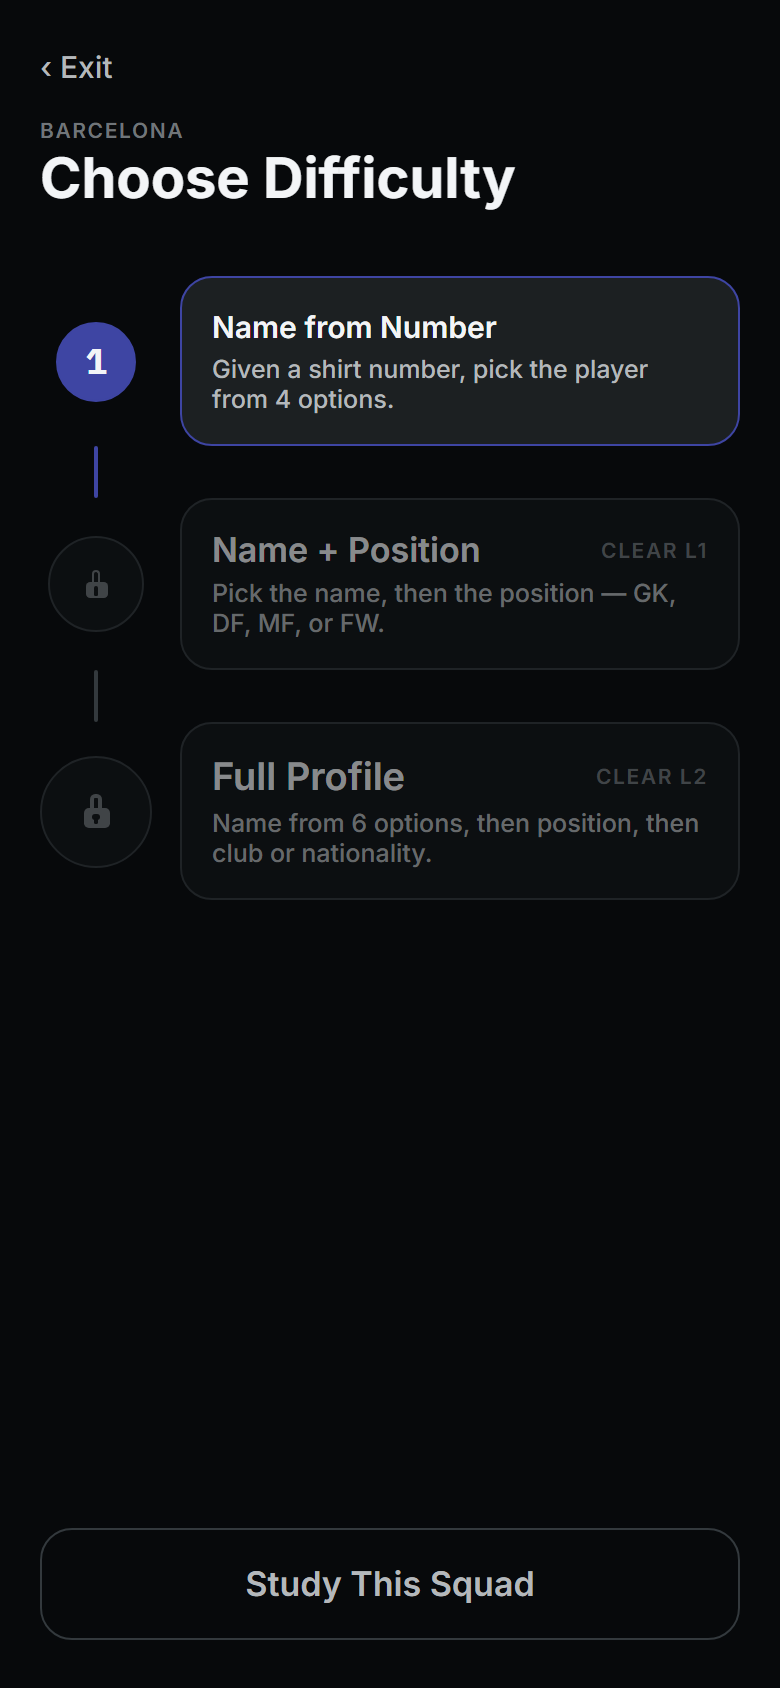
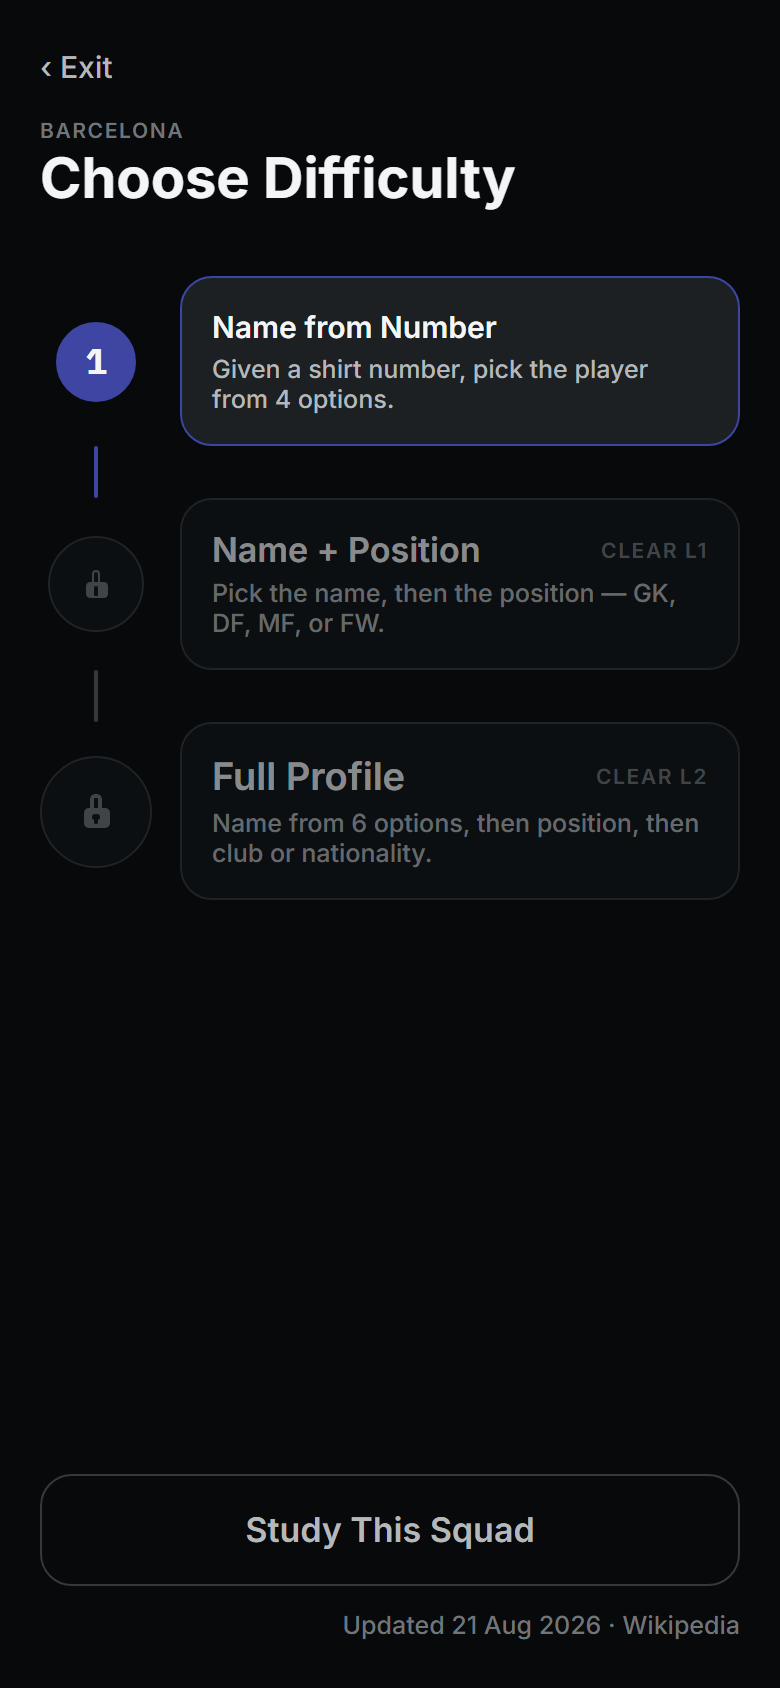
feat(data): track squad provenance and surface it before a round
Add lastUpdated/source to the Squad type so every squad file records
when it was last synced and the Wikipedia article it came from;
backfill all 11 existing squads. The squad-updater skill now writes
and reports both fields on every create/refresh. The Difficulty
screen shows a muted "Updated <date> · Wikipedia" footnote so a stale
squad is visible before a round starts, without cluttering the
in-round screens.

Changed region(s): [[0.3077, 0.8934, 0.7692, 0.9858], [0.8, 0.8934, 0.9538, 0.9858], [0.0308, 0.9242, 0.0615, 0.955]]

diff --git a/app/team/[squadId]/difficulty.tsx b/app/team/[squadId]/difficulty.tsx
@@ -6,7 +6,7 @@ import { Button } from '@/components/Button';
 import { DifficultyRow } from '@/components/DifficultyRow';
 import { LadderConnector } from '@/components/LadderConnector';
 import type { Level } from '@/lib/questionEngine';
-import { ladderRows } from '@/lib/ladderView';
+import { formatLastUpdated, ladderRows } from '@/lib/ladderView';
 import { getSquad } from '@/lib/squads';
 import { useProgress } from '@/stores/progress';
 import { colors, spacing, typography } from '@/theme/tokens';
@@ -82,6 +82,8 @@ export default function Difficulty() {
           }
         />
       </View>
+
+      <Text style={styles.updated}>Updated {formatLastUpdated(squad.lastUpdated)} · Wikipedia</Text>
     </View>
   );
 }
@@ -98,4 +100,10 @@ const styles = StyleSheet.create({
   title: { ...typography.screenTitle, color: colors.textPrimary, marginBottom: spacing.xxl },
   spacer: { flex: 1 },
   studyButton: { marginTop: spacing.lg },
+  updated: {
+    ...typography.descriptionSmall,
+    color: colors.textMuted,
+    alignSelf: 'flex-end',
+    marginTop: spacing.sm,
+  },
 });

diff --git a/lib/ladderView.test.ts b/lib/ladderView.test.ts
@@ -1,5 +1,5 @@
 import { describe, expect, it } from 'vitest';
-import { ladderRows } from './ladderView';
+import { formatLastUpdated, ladderRows } from './ladderView';
 
 describe('ladderRows', () => {
   it('unlocks level 1 with no history at all', () => {
@@ -44,5 +44,15 @@ describe('ladderRows', () => {
 
   it('returns exactly three rows in level order', () => {
     expect(ladderRows('bar', {}, {}).map((r) => r.level)).toEqual([1, 2, 3]);
+  });
+});
+
+describe('formatLastUpdated', () => {
+  it('formats an ISO date as day month year', () => {
+    expect(formatLastUpdated('2026-08-21')).toBe('21 Aug 2026');
+  });
+
+  it('does not zero-pad the day', () => {
+    expect(formatLastUpdated('2026-01-05')).toBe('5 Jan 2026');
   });
 });

diff --git a/lib/ladderView.ts b/lib/ladderView.ts
@@ -35,3 +35,12 @@ export function ladderRows(
     return { level, status: 'locked', unlockHint: `Clear L${level - 1}` };
   });
 }
+
+const MONTHS = ['Jan', 'Feb', 'Mar', 'Apr', 'May', 'Jun', 'Jul', 'Aug', 'Sep', 'Oct', 'Nov', 'Dec'];
+
+/** Formats a squad's `lastUpdated` (`YYYY-MM-DD`) as "21 Aug 2026" for the
+ *  difficulty screen's staleness footnote. */
+export function formatLastUpdated(isoDate: string): string {
+  const [year, month, day] = isoDate.split('-').map(Number);
+  return `${day} ${MONTHS[(month ?? 1) - 1]} ${year}`;
+}

diff --git a/types/squad.ts b/types/squad.ts
@@ -71,6 +71,10 @@ export interface Squad {
   /** The team's sole visual identity element — see `TeamMarker`. Present on
    *  every squad, since crests/badges/shields are never used. */
   marker: TeamMarker;
+  /** ISO date this squad file was last written/synced from its source. */
+  lastUpdated: string;
+  /** The Wikipedia article this squad was scraped from. */
+  source: string;
   members: SquadMember[];
 }
 

diff --git a/lib/questionEngine.test.ts b/lib/questionEngine.test.ts
@@ -27,6 +27,8 @@ function squad(overrides: Partial<Squad> = {}): Squad {
     secondaryColor: '#FFFFFF',
     verified: false,
     marker: { bands: ['#EF0107'], orientation: 'vertical' },
+    lastUpdated: '2026-08-21',
+    source: 'https://en.wikipedia.org/wiki/Test_FC',
     members: [],
     ...overrides,
   };

diff --git a/stores/session.test.ts b/stores/session.test.ts
@@ -34,6 +34,8 @@ const squad: Squad = {
   secondaryColor: '#FFFFFF',
   verified: false,
   marker: { bands: ['#EF0107'], orientation: 'vertical' },
+  lastUpdated: '2026-08-21',
+  source: 'https://en.wikipedia.org/wiki/Test_FC',
   members: [],
 };
 

diff --git a/.claude/skills/squad-updater/SKILL.md b/.claude/skills/squad-updater/SKILL.md
@@ -97,9 +97,20 @@ roster.
      birth from their own Wikipedia infobox rather than leaving it blank.
 
 8. **Write `data/squads/<id>.json`**, matching the existing shape exactly:
-   `id, kind, name, season, primaryColor, secondaryColor, verified, marker, members`.
+   `id, kind, name, season, primaryColor, secondaryColor, verified, marker,
+lastUpdated, source, members`.
    `members` is `[{ playerId, no, captain? }]` — shirt number lives on the
    membership, never on the player.
+
+   - `lastUpdated` — ISO date (`YYYY-MM-DD`) you're writing this file, i.e.
+     today, not the "as of" date the Wikipedia section itself claims (that
+     one still goes in your step-12 report, since it can predate today by
+     weeks).
+   - `source` — the exact Wikipedia article URL you fetched, e.g.
+     `https://en.wikipedia.org/wiki/Argentina_national_football_team`. Set
+     both fields on every write, new squad or refresh — a refresh always
+     overwrites the old `lastUpdated`/`source` with the current ones, the
+     same way it always resets `verified` to `false`.
 
    - `marker` — **required on every squad**, club or nation alike; it's the
      team's sole visual identity element, since crests/badges/shields are
@@ -149,8 +160,8 @@ squad file, not as a follow-up fix.
     command rather than trying alternate invocations one at a time.
 
 12. **Report per team**: players added, removed, or moved club; number
-    changes; the captain; and the "as of" date Wikipedia lists for the
-    section you used.
+    changes; the captain; the "as of" date Wikipedia lists for the section
+    you used; and the `source` URL and `lastUpdated` date you wrote.
 
 ## Quick reference
 
@@ -183,3 +194,5 @@ squad file, not as a follow-up fix.
 - Populating `photo` — it stays `null` in v0 regardless of what Wikipedia has.
 - For a national team, grabbing an old/cached call-up list instead of the
   most recent "Current squad"/"Recent call-ups" section.
+- Leaving `lastUpdated`/`source` stale on a refresh — both get overwritten
+  with the current date and the URL you actually fetched, every time.
